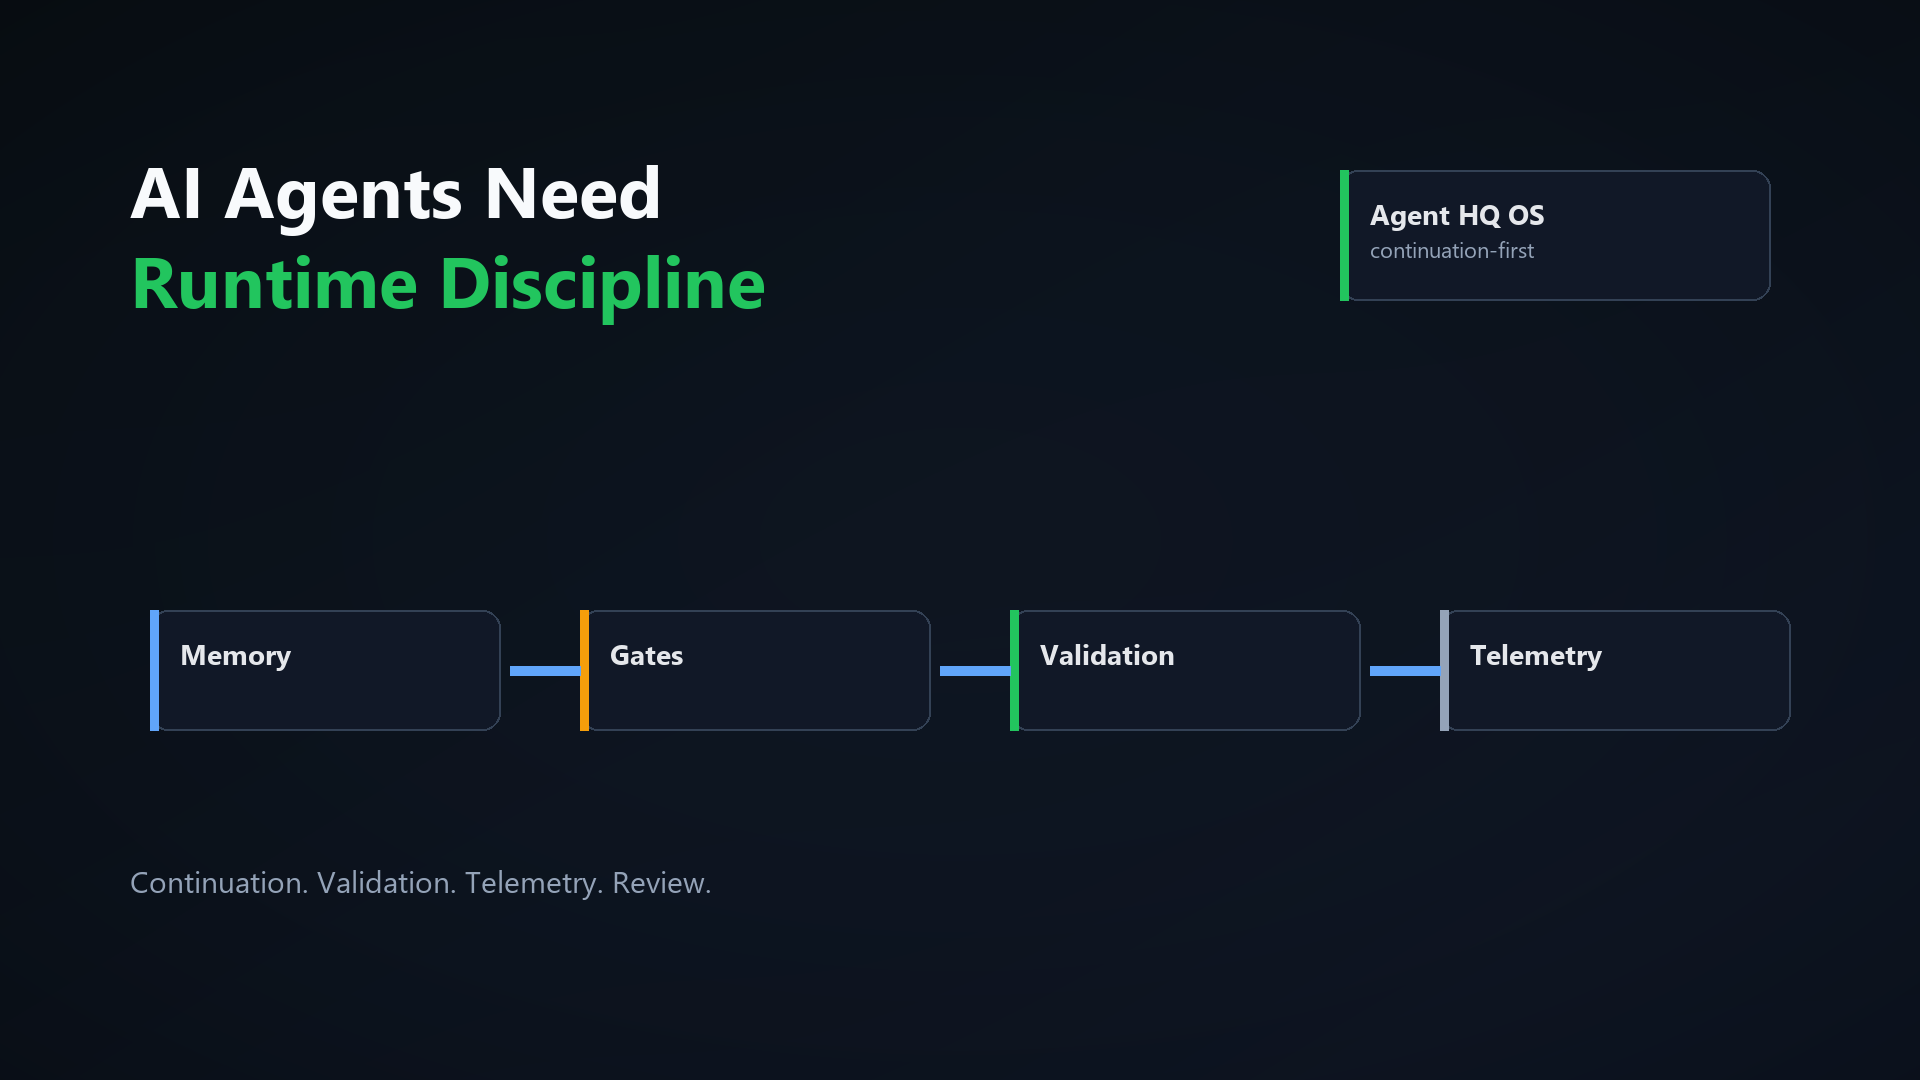
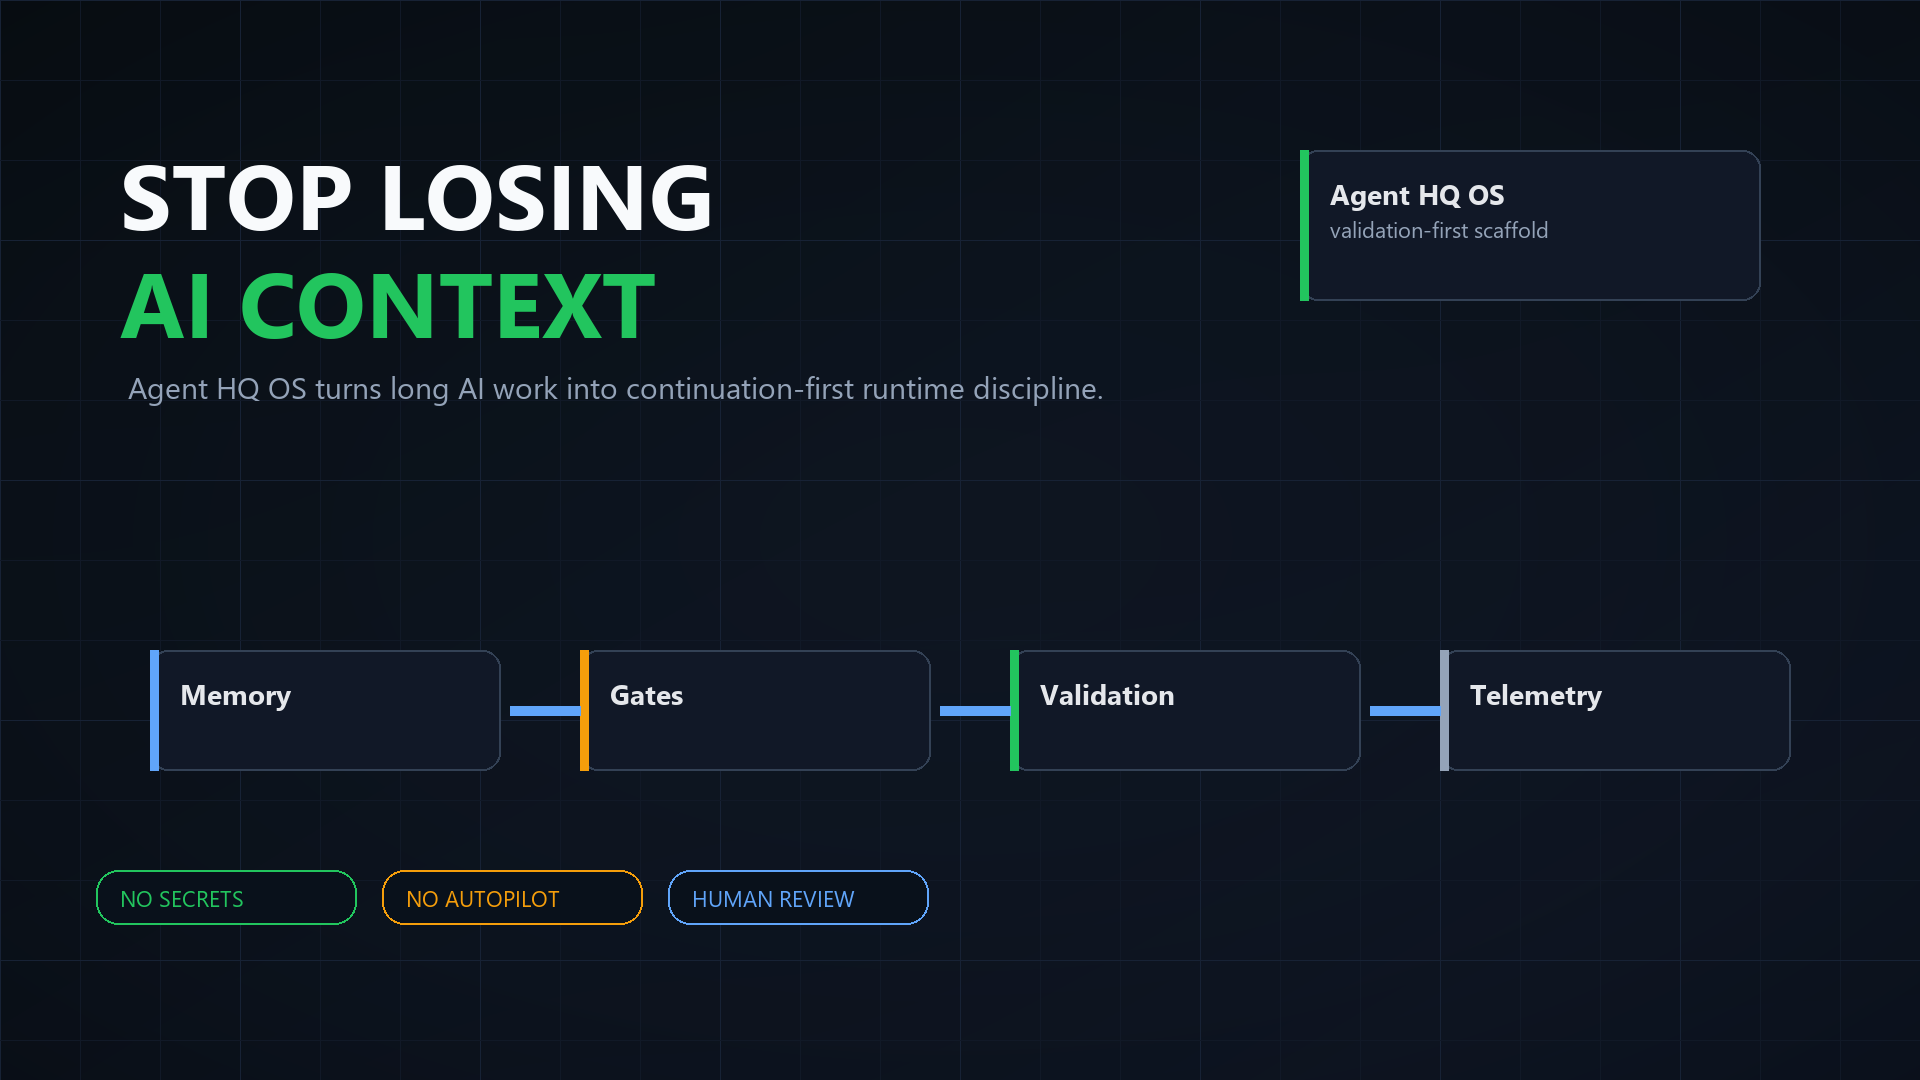
Upgrade Agent HQ OS showcase visuals

diff --git a/visuals/render_report.md b/visuals/render_report.md
@@ -6,10 +6,10 @@ Date: 2026-05-19
 
 | Asset | Path | Size |
 | --- | --- | ---: |
-| MP4 | `visuals/agent_hq_os_showcase.mp4` | 7.25 MB |
-| GIF | `visuals/agent_hq_os_showcase.gif` | 20.26 MB |
-| Short preview GIF | `visuals/agent_hq_os_short_preview.gif` | 5.92 MB |
-| Thumbnail | `visuals/agent_hq_os_thumbnail.png` | 0.10 MB |
+| MP4 | `visuals/agent_hq_os_showcase.mp4` | 8.76 MB |
+| GIF | `visuals/agent_hq_os_showcase.gif` | 22.79 MB |
+| Short preview GIF | `visuals/agent_hq_os_short_preview.gif` | 6.90 MB |
+| Thumbnail | `visuals/agent_hq_os_thumbnail.png` | 0.12 MB |
 | SRT | `visuals/voiceover_script.srt` | 0.00 MB |
 
 ## Technical Validation
@@ -22,16 +22,14 @@ Date: 2026-05-19
 - Short GIF streams detected: 1
 - GIF loop mode: infinite (`loop=0`)
 - Short preview GIF loop mode: infinite (`loop=0`)
-- MP4 decode validation: passed with `ffmpeg -v error`
-- README embed choice: short preview GIF embedded; full MP4 linked
 
 ## Render Notes
 
-- Style: dark cinematic motion graphics.
+- Style: dark cinematic motion graphics, operator console layout, stronger context-collapse opening, and cleaner runtime-discipline reveal.
 - Source: generated operator-console frames plus existing Agent HQ OS visual language.
 - No stock footage, no fake AGI imagery, no credential-bearing screenshots.
 - Video includes silent AAC audio track for compatibility and separate `voiceover_script.srt` subtitles.
-- Full GIF is GitHub-friendly preview quality; MP4 is the primary showcase asset.
+- Full GIF is available for preview use; README embeds the lighter short GIF and links to the MP4 as the primary showcase asset.
 
 ## README Guidance
 